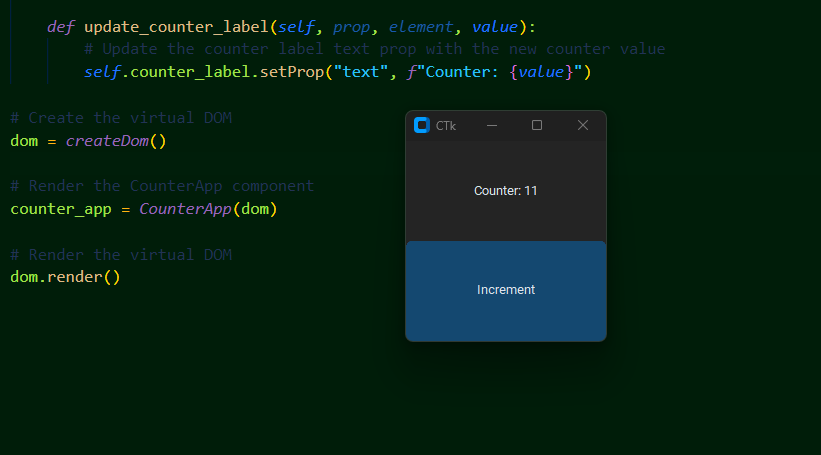
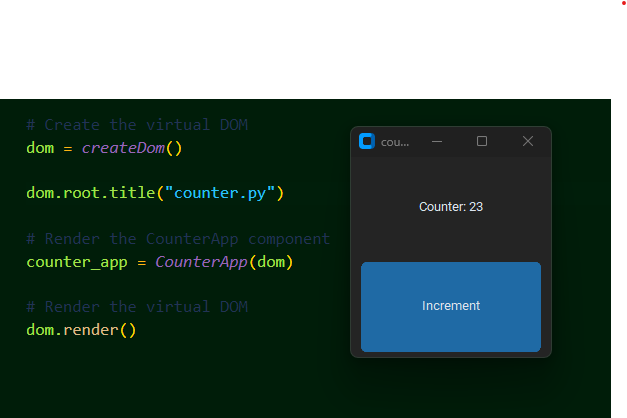
examples

diff --git a/examples/navbar.py b/examples/navbar.py
@@ -1,4 +1,4 @@
-from pynamicui import createDom, createElement
+from pynamicui import createDom, createElement, createStylesheet
 
 class NavBarApp:
     def __init__(self, dom):
@@ -8,10 +8,10 @@ class NavBarApp:
         self.navbar_container = createElement(self.dom, "Frame", place={"relwidth": 1, "relheight": 0.1})
 
         # Create the navigation buttons
-        self.home_button = createElement(self.navbar_container, "Button", props={"text": "Home", "command": lambda: self.dom.nav("home")}, place={"relwidth": 0.25, "relheight": 1})
-        self.about_button = createElement(self.navbar_container, "Button", props={"text": "About", "command": lambda: self.dom.nav("about")}, place={"relwidth": 0.25, "relheight": 1, "relx": 0.25})
-        self.products_button = createElement(self.navbar_container, "Button", props={"text": "Products", "command": lambda: self.dom.nav("products")}, place={"relwidth": 0.25, "relheight": 1, "relx": 0.5})
-        self.contact_button = createElement(self.navbar_container, "Button", props={"text": "Contact", "command": lambda: self.dom.nav("contact")}, place={"relwidth": 0.25, "relheight": 1, "relx": 0.75})
+        self.home_button = createElement(self.navbar_container, "Button", style="NavButton", props={"text": "Home", "command": lambda: self.dom.nav("home")}, place={"relwidth": 0.25, "relheight": 1})
+        self.about_button = createElement(self.navbar_container, "Button", style="NavButton", props={"text": "About", "command": lambda: self.dom.nav("about")}, place={"relwidth": 0.25, "relheight": 1, "relx": 0.25})
+        self.products_button = createElement(self.navbar_container, "Button", style="NavButton", props={"text": "Products", "command": lambda: self.dom.nav("products")}, place={"relwidth": 0.25, "relheight": 1, "relx": 0.5})
+        self.contact_button = createElement(self.navbar_container, "Button", style="NavButton", props={"text": "Contact", "command": lambda: self.dom.nav("contact")}, place={"relwidth": 0.25, "relheight": 1, "relx": 0.75})
 
         # Create a frame container for the content pages
         self.pages_container = createElement(self.dom, "Frame", place={"relwidth": 1, "relheight": 0.9, "rely": 0.1})
@@ -40,6 +40,14 @@ class NavBarApp:
 
 # Create the virtual DOM
 dom = createDom()
+
+dom.root.title("navbar.py")
+
+stylesheet = createStylesheet()
+
+stylesheet.addStyle("NavButton", {"padx" : 0.05, "pady" : 0.1})
+
+dom.setStylesheet(stylesheet)
 
 #Set the window size
 dom.setGeometry("800x600")

diff --git a/examples/calculatorapp.py b/examples/calculatorapp.py
@@ -1,4 +1,4 @@
-from pynamicui import createDom, createElement
+from pynamicui import createDom, createElement, createStylesheet
 class CalculatorApp:
     def __init__(self, dom):
         self.dom = dom
@@ -18,7 +18,7 @@ class CalculatorApp:
             self.create_button(text, i // 4, i % 4)
 
     def create_button(self, text, row, column):
-        createElement(self.dom, "Button", props={"text": text, "command": lambda: self.on_button_click(text)}, place={"relwidth": 0.25, "relheight": 0.2, "relx": 0.25 * column, "rely": 0.2 * row + 0.2})
+        createElement(self.dom, "Button", style="CalculatorButton", props={"text": text, "command": lambda: self.on_button_click(text)}, place={"relwidth": 0.25, "relheight": 0.2, "relx": 0.25 * column, "rely": 0.2 * row + 0.2})
 
     def on_button_click(self, text):
         if text == "=":
@@ -37,6 +37,14 @@ class CalculatorApp:
             self.display_label.setProp("text", self.current_value)
 # Create the virtual DOM
 dom = createDom()
+
+stylesheet = createStylesheet()
+
+stylesheet.addStyle("CalculatorButton", {"padx" : 0.1, "pady" : 0.05})
+
+dom.root.title("calculatorapp.py")
+
+dom.setStylesheet(stylesheet)
 
 # Set the window size
 dom.setGeometry("400x500")

diff --git a/examples/dynamiclist.py b/examples/dynamiclist.py
@@ -1,17 +1,25 @@
 # Sample code demonstrating dynamic list creation
 # (Please note that this is a simplified example for demonstration purposes)
-from pynamicui import createDom, createElement
+from pynamicui import createDom, createElement, createStylesheet
+
+stylesheet = createStylesheet()
+
+stylesheet.addStyle("PaddingExample", {"padx": 0.1, "pady": 0.05})
 
 dom = createDom()
 
+dom.root.title("dynamiclist.py")
+
+dom.setStylesheet(stylesheet)
+
 # Parent container
-container = createElement(dom, "Frame", place={"relx": 0, "rely": 0, "relwidth": 1, "relheight": 1})
+container = createElement(dom, "Frame", style="PaddingExample", place={"relx": 0, "rely": 0, "relwidth": 1, "relheight": 1})
 
 # Dynamic list items (using a loop to create multiple items)
 num_items = 5
 
 def createButton(i):
-    item = createElement(container, "Button", props={"text": f"Item {i+1}", "command": lambda: item.destroy()})
+    item = createElement(container, "Button", props={"text": f"Item {i+1}", "command": lambda: item.destroy()}, spacing={"padx" : 0.05, "pady" : 0.1})
     item.place({"relx":0, "rely":(i / num_items), "relwidth":1, "relheight": (1 / num_items)}) 
 
 for i in range(num_items):

diff --git a/examples/counter.py b/examples/counter.py
@@ -7,10 +7,10 @@ class CounterApp:
         self.dom.useState("counter", 0, self.update_counter_label)
 
         # Create a label to display the counter value
-        self.counter_label = createElement(self.dom, "Label", props={"text": "Counter: 0"}, place={"relwidth": 1, "relheight": 0.5})
+        self.counter_label = createElement(self.dom, "Label", props={"text": "Counter: 0"}, place={"relwidth": 1, "relheight": 0.5}, spacing={"padx" : 0.1, "pady": 0.1})
 
         # Create a button to increment the counter
-        self.increment_button = createElement(self.dom, "Button", props={"text": "Increment", "command": self.increment_counter}, place={"relwidth": 1, "relheight": 0.5, "rely": 0.5})
+        self.increment_button = createElement(self.dom, "Button", props={"text": "Increment", "command": self.increment_counter}, spacing={"padx" : 0.1, "pady": 0.1}, place={"relwidth": 1, "relheight": 0.5, "rely": 0.5})
 
     def increment_counter(self):
         # Get the current counter value
@@ -26,6 +26,8 @@ class CounterApp:
 
 # Create the virtual DOM
 dom = createDom()
+
+dom.root.title("counter.py")
 
 # Render the CounterApp component
 counter_app = CounterApp(dom)
